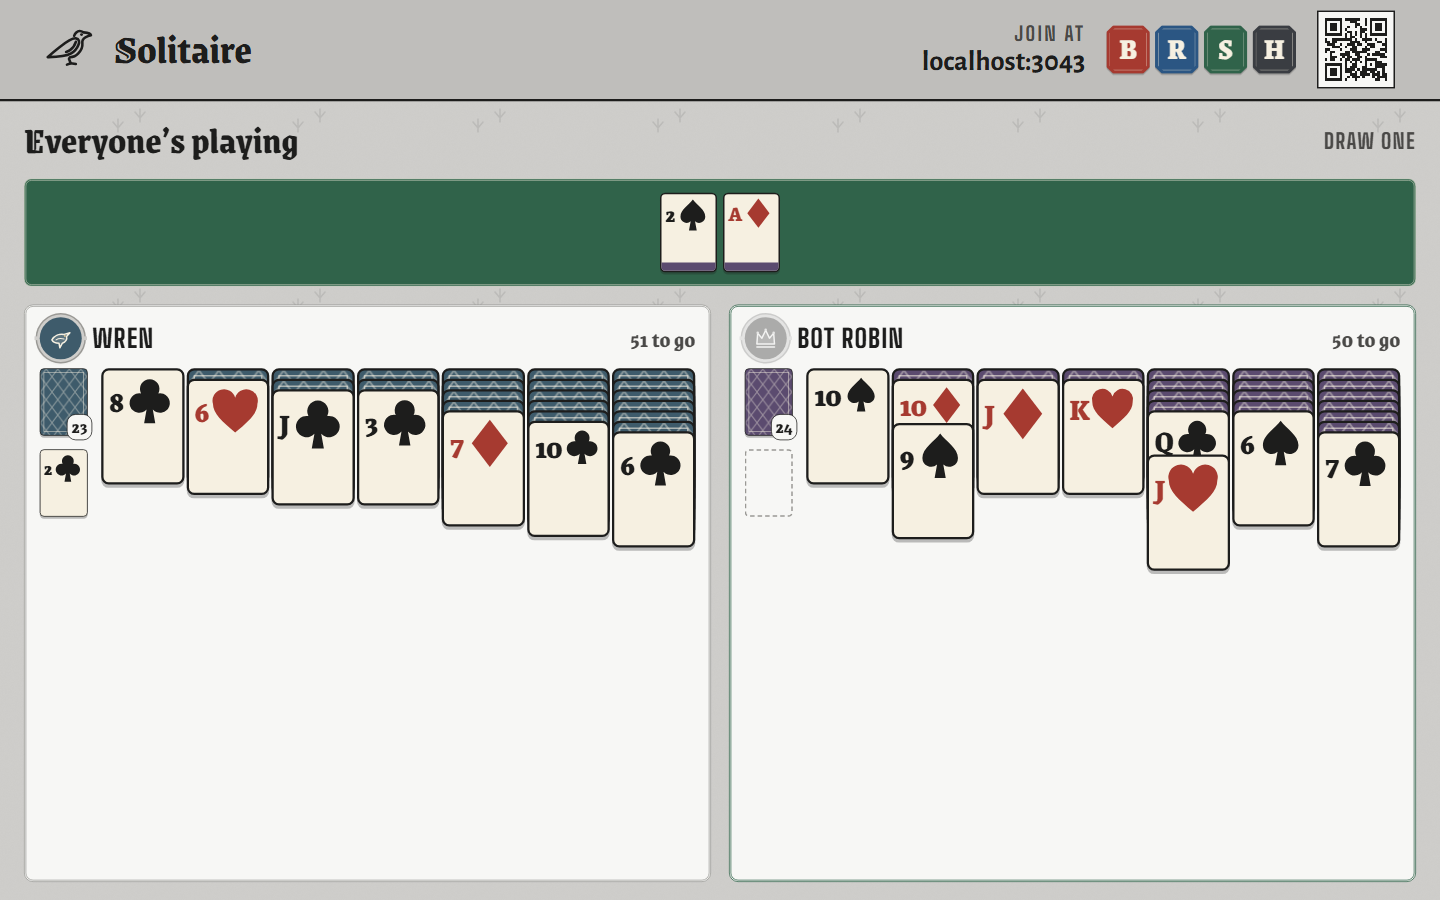
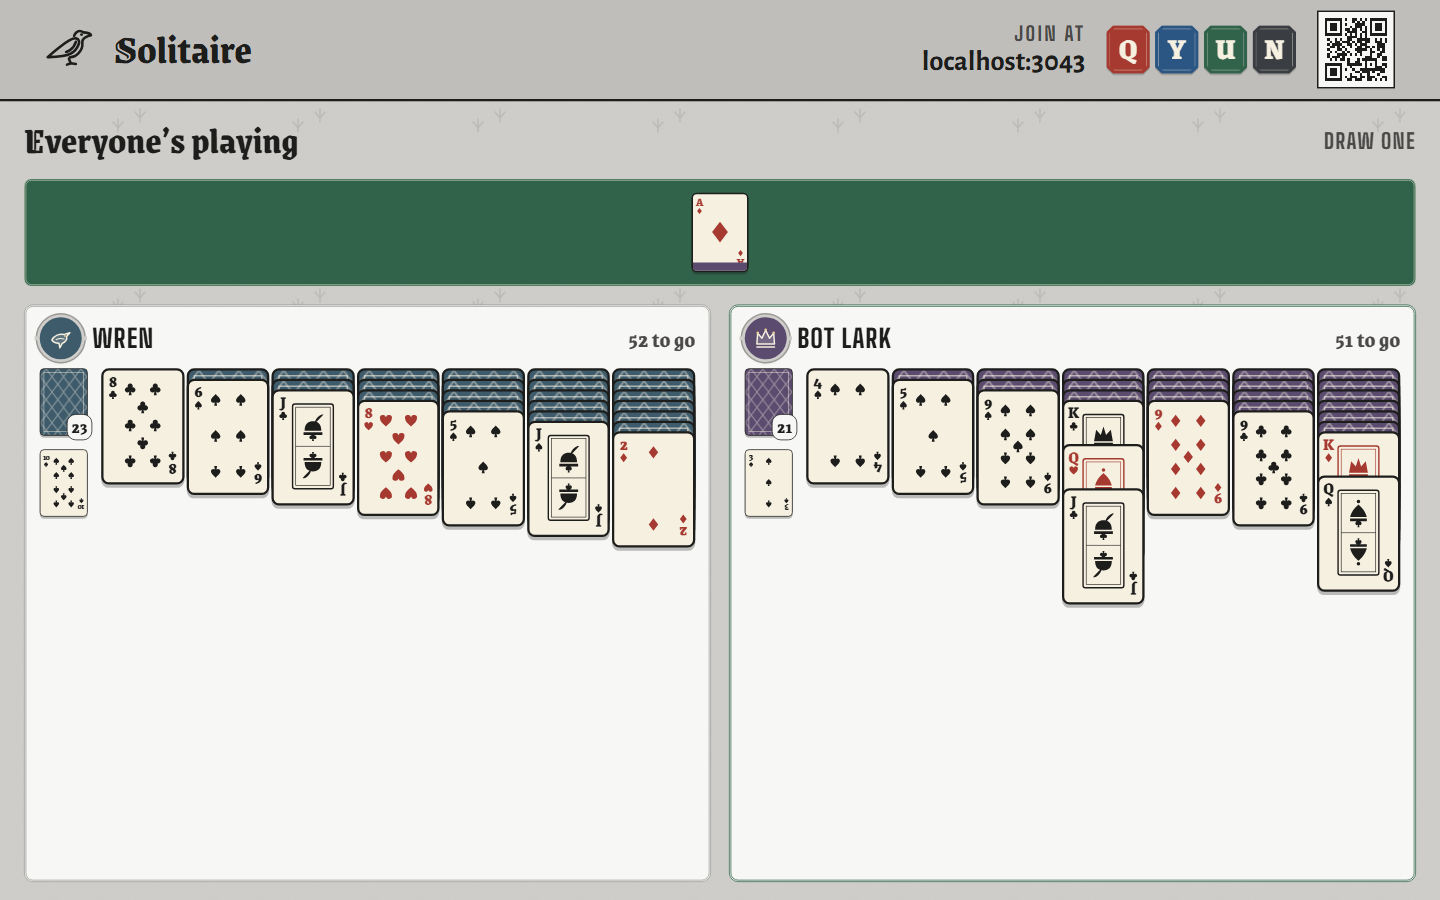
Solitaire: full printed card faces, simple ones on phones
Laptops and TVs show real card faces: rank and suit in two corners, pips laid out by rank, and framed pictures on jacks, queens and kings. Phones keep a plain card with the rank and one large suit in the middle, and a tiny suit in the top right corner on a card with another fanned over it. Pictures retaken.

diff --git a/packages/games/solitaire/src/ui/pieces.tsx b/packages/games/solitaire/src/ui/pieces.tsx
@@ -2,7 +2,7 @@
 
 import type { CSSProperties, ReactNode } from 'react';
 import type { ScreenPlayer } from '@jackdaw/ui';
-import { cardText, isRed, suitOf, SUITS, type Card, type Suit } from '../cards';
+import { cardText, isRed, rankOf, suitOf, SUITS, type Card, type Suit } from '../cards';
 import type { FoundationView, SeatView, Source } from '../rules';
 
 const SUIT_PATH: Record<Suit, string> = {
@@ -20,6 +20,181 @@ export function SuitMark({ suit }: { suit: Suit }) {
   );
 }
 
+/** Where the pips go on each number card, on a 50 by 70 card. Ones below the middle are upside down. */
+const L = 17;
+const C = 25;
+const R = 33;
+const PIPS: Record<number, [number, number][]> = {
+  2: [
+    [C, 12],
+    [C, 58],
+  ],
+  3: [
+    [C, 12],
+    [C, 35],
+    [C, 58],
+  ],
+  4: [
+    [L, 12],
+    [R, 12],
+    [L, 58],
+    [R, 58],
+  ],
+  5: [
+    [L, 12],
+    [R, 12],
+    [C, 35],
+    [L, 58],
+    [R, 58],
+  ],
+  6: [
+    [L, 12],
+    [R, 12],
+    [L, 35],
+    [R, 35],
+    [L, 58],
+    [R, 58],
+  ],
+  7: [
+    [L, 12],
+    [R, 12],
+    [C, 23.5],
+    [L, 35],
+    [R, 35],
+    [L, 58],
+    [R, 58],
+  ],
+  8: [
+    [L, 12],
+    [R, 12],
+    [C, 23.5],
+    [L, 35],
+    [R, 35],
+    [C, 46.5],
+    [L, 58],
+    [R, 58],
+  ],
+  9: [
+    [L, 12],
+    [R, 12],
+    [L, 27.3],
+    [R, 27.3],
+    [C, 35],
+    [L, 42.7],
+    [R, 42.7],
+    [L, 58],
+    [R, 58],
+  ],
+  10: [
+    [L, 12],
+    [R, 12],
+    [C, 19.7],
+    [L, 27.3],
+    [R, 27.3],
+    [L, 42.7],
+    [R, 42.7],
+    [C, 50.3],
+    [L, 58],
+    [R, 58],
+  ],
+};
+
+/** The court cards' pictures, drawn on 24 units: a crown, a coronet and a plumed cap. */
+const COURT: Record<string, string> = {
+  K: 'M3 18L5 7l4.5 5L12 4l2.5 8L19 7l2 11zM3 19.5h18V22H3z',
+  Q: 'M4 18c2-7 5-9 8-12 3 3 6 5 8 12zM4 19.5h16V22H4zM12 1.6a1.7 1.7 0 1 1 0 3.4 1.7 1.7 0 0 1 0-3.4z',
+  J: 'M4 18c0-7 4-9 8-9s8 2 8 9zM3 19.5h18V22H3zM14 9c2-5 6-7 8-6.5-2 2.5-5 5.5-7 7.5z',
+};
+
+/** A suit mark of size `size` centred on (x, y), upside down when `flip`. */
+function Pip({
+  suit,
+  x,
+  y,
+  size,
+  flip,
+}: {
+  suit: Suit;
+  x: number;
+  y: number;
+  size: number;
+  flip?: boolean;
+}) {
+  const at = `translate(${x - size / 2} ${y - size / 2}) scale(${size / 24})`;
+  return <path d={SUIT_PATH[suit]} transform={flip ? `rotate(180 ${x} ${y}) ${at}` : at} />;
+}
+
+/** The corner index: the rank with its suit under it. */
+function Index({ card, suit }: { card: Card; suit: Suit }) {
+  const ten = card[0] === 'T';
+  return (
+    <>
+      <text
+        x="6"
+        y="10.5"
+        textAnchor="middle"
+        fontSize={ten ? 9 : 11}
+        letterSpacing={ten ? -0.8 : 0}
+      >
+        {ten ? '10' : card[0]}
+      </text>
+      <Pip suit={suit} x={6} y={15.5} size={6.5} />
+    </>
+  );
+}
+
+/**
+ * A full printed face (2026-10-30: "the full card pictures"): the index in two corners, the
+ * pips laid out as on a real card, and a framed picture on the jack, queen and king.
+ */
+function Face({ card }: { card: Card }) {
+  const suit = suitOf(card);
+  const rank = rankOf(card);
+  const court = COURT[card[0]!];
+  return (
+    <svg className="sol-card__face" viewBox="0 0 50 70" aria-hidden="true" fill="currentColor">
+      <Index card={card} suit={suit} />
+      <g transform="rotate(180 25 35)">
+        <Index card={card} suit={suit} />
+      </g>
+      {rank === 1 && <Pip suit={suit} x={25} y={35} size={22} />}
+      {PIPS[rank]?.map(([x, y], i) => (
+        <Pip key={i} suit={suit} x={x} y={y} size={9} flip={y > 35} />
+      ))}
+      {court && (
+        <>
+          <rect
+            x="12"
+            y="8"
+            width="26"
+            height="54"
+            rx="1.5"
+            fill="none"
+            stroke="currentColor"
+            strokeWidth="0.9"
+          />
+          <rect
+            x="14"
+            y="10"
+            width="22"
+            height="50"
+            fill="none"
+            stroke="currentColor"
+            strokeWidth="0.4"
+          />
+          {[false, true].map((flip) => (
+            <g key={String(flip)} transform={flip ? 'rotate(180 25 35)' : undefined}>
+              <path d={court} transform="translate(17 13) scale(0.667)" />
+              <Pip suit={suit} x={25} y={29} size={6} />
+            </g>
+          ))}
+          <path d="M14 35h22" stroke="currentColor" strokeWidth="0.4" />
+        </>
+      )}
+    </svg>
+  );
+}
+
 const cx = (...names: (string | false | null | undefined)[]) => names.filter(Boolean).join(' ');
 
 /** A player's tint, for their deck's backs and the tab on cards they put up. */
@@ -27,9 +202,11 @@ export const tintOf = (players: ScreenPlayer[], id: string) =>
   `var(--tint-${players.find((p) => p.id === id)?.avatar.tint ?? 'slate'}, var(--sable))`;
 
 /**
- * A printed playing card. The rank and its suit run along the top edge, so a card fanned in a
- * column still reads, and that is the card's only mark (2026-10-30: "just have one"). Face down it shows the deck's back in its owner's
- * tint. Its width comes from `--w` (set by whatever holds it).
+ * A printed playing card. On laptops and TVs it has the full face (see `Face`). On phones,
+ * where cards are small, it's the rank in the corner and the suit large in the middle (2026-10-30:
+ * "on phones, it should only be the suit"), and a card with another fanned over it shows a tiny
+ * suit in its top right corner instead ("if it's under another card, have a tiny symbol"). Face down it shows the deck's
+ * back in its owner's tint. Its width comes from `--w` (set by whatever holds it).
  */
 export function PlayingCard({
   card,
@@ -40,6 +217,7 @@ export function PlayingCard({
   style,
   onTap,
   label,
+  covered = false,
 }: {
   card?: Card;
   down?: boolean;
@@ -51,6 +229,8 @@ export function PlayingCard({
   style?: CSSProperties;
   onTap?: () => void;
   label?: string;
+  /** Another card is fanned over it, hiding the middle. */
+  covered?: boolean;
 }) {
   const vars = { ...(back ? { '--back': back } : {}), ...(tab ? { '--tab': tab } : {}), ...style };
   if (down || !card) {
@@ -65,9 +245,14 @@ export function PlayingCard({
   const suit = suitOf(card);
   const body: ReactNode = (
     <>
-      <span className="sol-card__index" aria-hidden="true">
-        <b>{card[0] === 'T' ? '10' : card[0]}</b>
-        <SuitMark suit={suit} />
+      <Face card={card} />
+      <span className="sol-card__simple">
+        <b className="sol-card__rank" aria-hidden="true">
+          {card[0] === 'T' ? '10' : card[0]}
+        </b>
+        <span className={covered ? 'sol-card__corner' : 'sol-card__pip'} aria-hidden="true">
+          <SuitMark suit={suit} />
+        </span>
       </span>
       {tab && <span className="sol-card__tab" aria-hidden="true" />}
     </>
@@ -198,6 +383,7 @@ export function Tableau({
                 bump === card && 'sol-bump',
                 j === col.up.length - 1 && 'sol-top',
               )}
+              covered={j < col.up.length - 1}
               style={{ '--i': col.down, '--j': j } as CSSProperties}
               onTap={onCard ? () => onCard(ci, card) : undefined}
             />
@@ -259,6 +445,7 @@ export function StockWaste({
               card === top && bump === card && 'sol-bump',
             )}
             style={{ '--k': i } as CSSProperties}
+            covered={card !== top}
             onTap={card === top && onWaste ? () => onWaste(card) : undefined}
           />
         ))}

diff --git a/packages/games/solitaire/src/ui/solitaire.css b/packages/games/solitaire/src/ui/solitaire.css
@@ -78,21 +78,48 @@ button.sol-card {
 .sol-card--red {
   color: var(--gules);
 }
-.sol-card__index {
+.sol-card__rank {
   position: absolute;
   top: 3%;
-  left: 7%;
-  right: 7%;
-  display: flex;
-  align-items: center;
-  justify-content: space-between;
-}
-.sol-card__index b {
+  left: 8%;
   font: 800 calc(var(--w) * 0.38) / 1 var(--font-code);
   letter-spacing: -0.04em;
 }
-.sol-card__index svg {
-  width: calc(var(--w) * 0.34);
+.sol-card__pip {
+  position: absolute;
+  top: 50%;
+  left: 50%;
+  width: 48%;
+  translate: -50% -40%;
+}
+.sol-card__face {
+  position: absolute;
+  inset: 0;
+  width: 100%;
+  height: 100%;
+}
+.sol-card__face text {
+  font-family: var(--font-code);
+  font-weight: 800;
+}
+/* Phones get the plain card: rank and one big suit (or a tiny one when covered). */
+.sol-card__simple {
+  display: none;
+}
+@media (max-width: 600px), (pointer: coarse) and (max-height: 500px) {
+  .sol-card .sol-card__face {
+    display: none;
+  }
+  .sol-card__simple {
+    display: contents;
+  }
+}
+/* Only on a card with another fanned over it, where the middle is hidden. */
+.sol-card__corner {
+  position: absolute;
+  top: 5%;
+  right: 8%;
+  width: 22%;
 }
 .sol-card svg {
   display: block;
